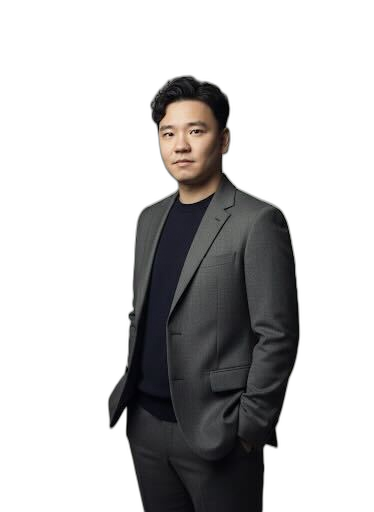
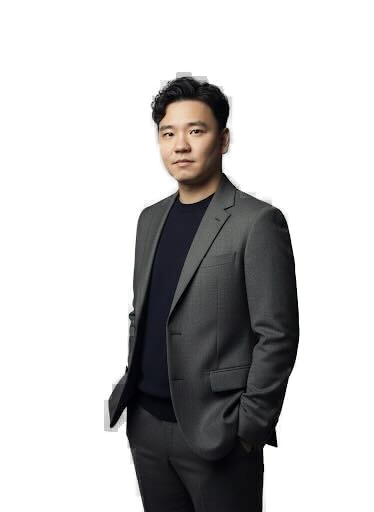
fix: improve photo bg removal, enlarge photo, replace scroll indicator
1. Re-processed photo with alpha matting for cleaner edge transitions
2. Enlarged photo from 480x320 to 600x440 for better visual presence
3. Removed ScrollProgress component (cyan line) — restored native
   scrollbar with subtle styling instead. Saves ~114KB (GSAP removed)

diff --git a/src/App.tsx b/src/App.tsx
@@ -1,8 +1,5 @@
-import { useEffect, lazy, Suspense } from 'react'
-import gsap from 'gsap'
-import { ScrollTrigger } from 'gsap/ScrollTrigger'
+import { lazy, Suspense } from 'react'
 import Nav from './components/Nav'
-import ScrollProgress from './components/ScrollProgress'
 
 const ParticleHero = lazy(() => import('./components/ParticleHero'))
 const AboutFirefly = lazy(() => import('./components/AboutFirefly'))
@@ -12,23 +9,15 @@ const ProjectCards = lazy(() => import('./components/ProjectCards'))
 const BlogEntries = lazy(() => import('./components/BlogEntries'))
 const ContactFooter = lazy(() => import('./components/ContactFooter'))
 
-gsap.registerPlugin(ScrollTrigger)
-
 function Loading() {
   return <div className="flex h-screen items-center justify-center bg-bg-primary" />
 }
 
 export default function App() {
-  useEffect(() => {
-    const id = setTimeout(() => ScrollTrigger.refresh(), 100)
-    return () => clearTimeout(id)
-  }, [])
-
   return (
     <>
       <a href="#about" className="skip-link">Skip to content</a>
       <Nav />
-      <ScrollProgress />
       <Suspense fallback={<Loading />}>
         <ParticleHero />
       </Suspense>

diff --git a/src/components/AboutFirefly.tsx b/src/components/AboutFirefly.tsx
@@ -283,7 +283,7 @@ const HUB_COUNT = 10 // bright hub nodes
               <Annotation number="6M+" label="Users Impacted" side="left" />
 
               {/* Photo */}
-              <div className="relative h-[480px] w-[320px] shrink-0">
+              <div className="relative h-[600px] w-[440px] shrink-0">
                 <img
                   src="/assets/charles-hero.png"
                   alt="Charles Chen"
